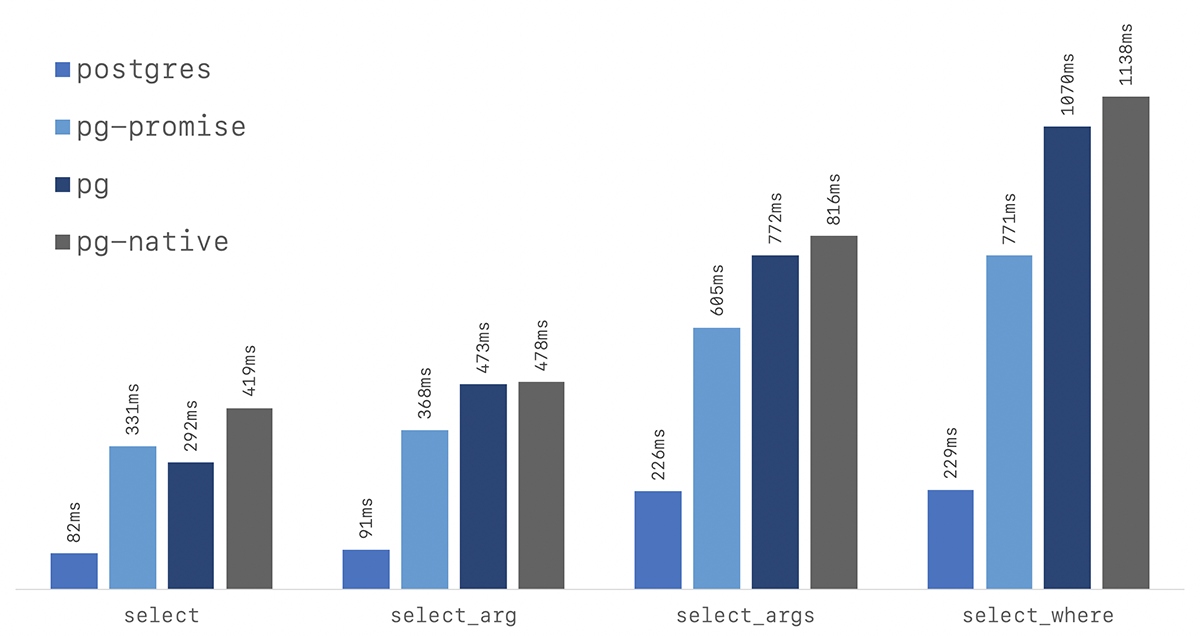
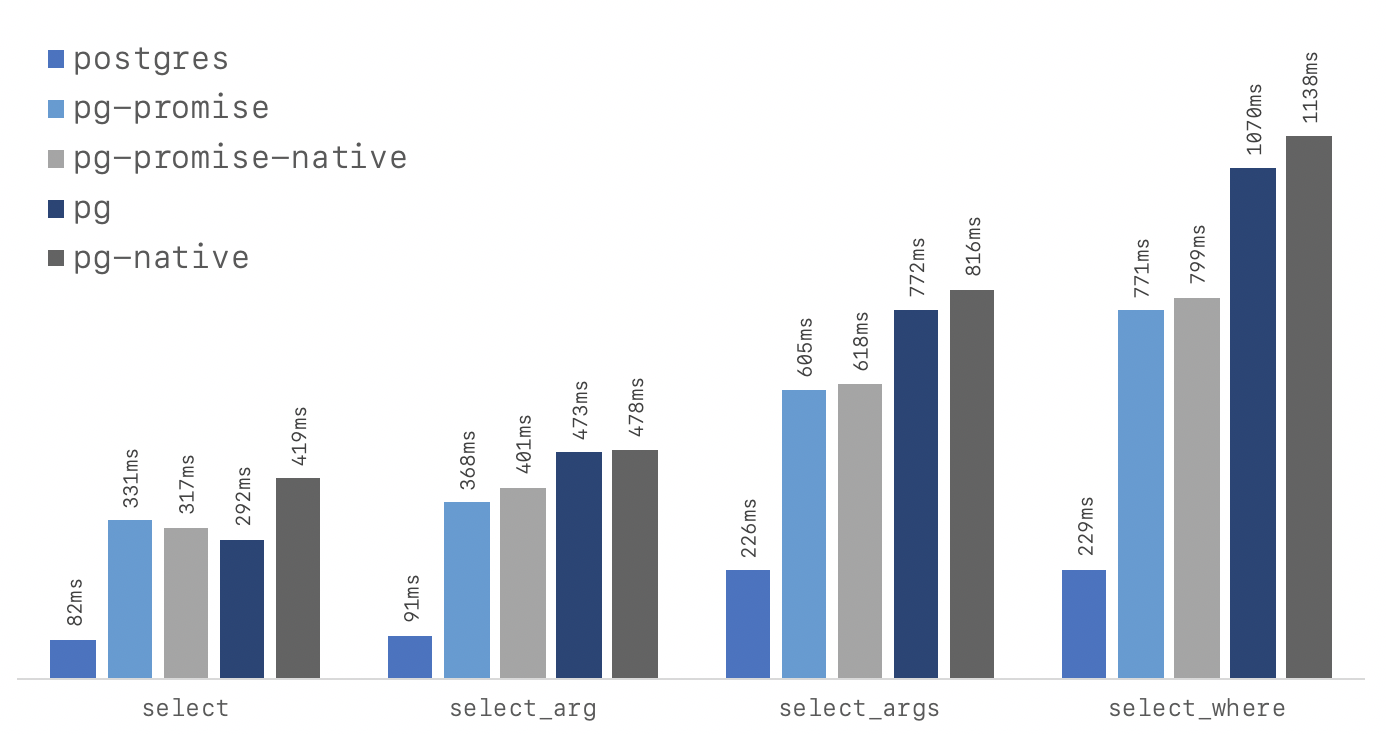
Add pg-promise-native

diff --git a/pg-promise-native/index.js b/pg-promise-native/index.js
@@ -1,0 +1,29 @@
+const pg = require('pg-promise')
+
+const db = pg()({ max: 4, pgNative: true })
+
+module.exports = {
+  queries: {
+    select: () => db.query('select 1 as x'),
+    select_arg: () => db.query('select $1 as x', [1]),
+    select_args: () => db.query(`select
+      $1::int as int,
+      $2 as string,
+      $3::timestamp with time zone as timestamp,
+      $4 as null,
+      $5::bool as boolean,
+      $6::bytea as bytea,
+      $7::jsonb as json
+    `, [
+      1337,
+      'wat',
+      new Date().toISOString(),
+      null,
+      false,
+      Buffer.from('awesome'),
+      JSON.stringify([{ some: 'json' }, { array: 'object' }])
+    ]),
+    select_where: () => db.query(`select * from pg_catalog.pg_type where typname = $1`, ['bool'])
+  },
+  end: () => db.$pool.end()
+}

diff --git a/index.js b/index.js
@@ -7,6 +7,8 @@ const queries = [
     , clients = [
       'postgres',
       'pg-promise',
+      'pg-promise-native',
+      'postgres-promise',
       'pg',
       'pg-native',
       //'slonik'

diff --git a/README.md b/README.md
@@ -21,6 +21,7 @@ client     |         select |     select_arg |    select_args |   select_where
 :--------- | -------------: | -------------: | -------------: | -------------:
 postgres   |    82ms (5.1x) |    91ms (5.3x) |   226ms (3.6x) |   229ms (5.0x)
 pg-promise |   331ms (1.3x) |   368ms (1.3x) |   605ms (1.3x) |   771ms (1.5x)
+pg-promise-native |  0.317s (1.3x) |  0.401s (1.2x) |  0.618s (1.3x) |  0.799s (1.4x)
 pg         |   292ms (1.4x) |   473ms (1.0x) |   772ms (1.1x) |  1070ms (1.1x)
 pg-native  |   419ms (1.0x) |   478ms (1.0x) |   816ms (1.0x) |  1138ms (1.0x)
 slonik     | 10466ms (0.0x) | 10904ms (0.0x) | 11190ms (0.0x) | 11107ms (0.0x)
